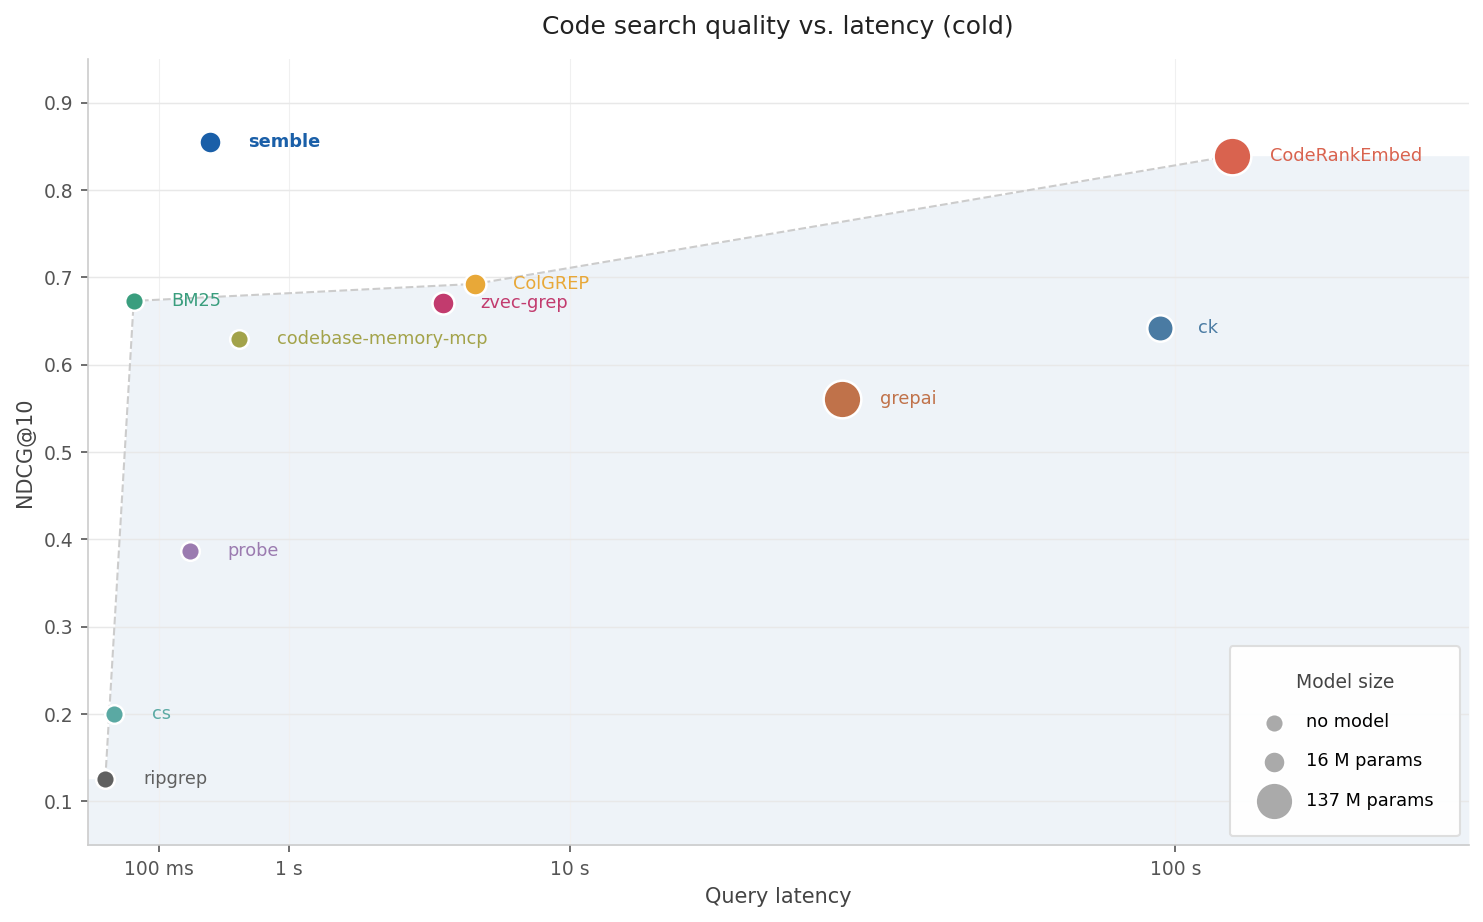
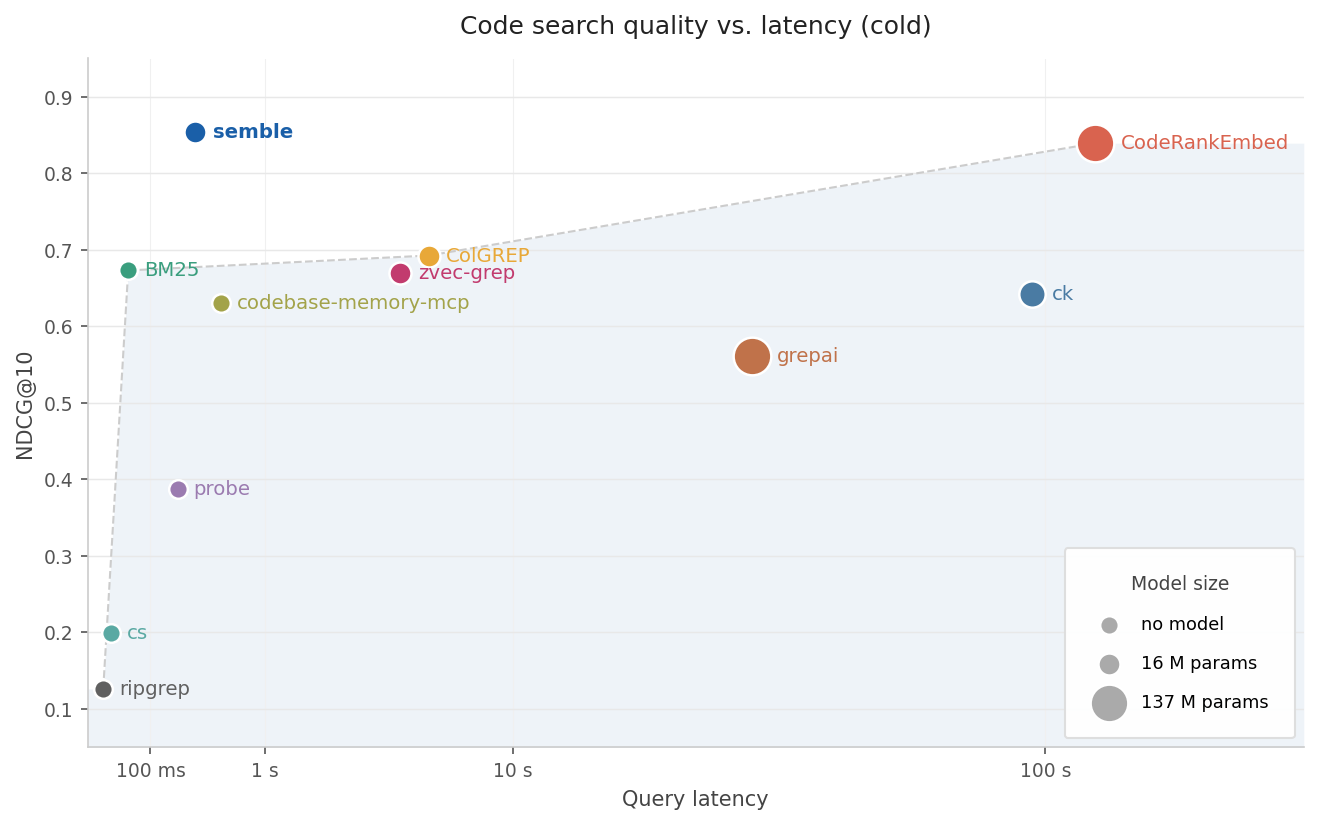
bench: offset plot labels from the marker edge instead of in data space
The old offset was a fixed distance in cube-root(ms) space, so the visible
gap depended on marker size, axis range and figure size — labels drifted
far from the smaller bubbles. Offsetting by the marker's radius plus a
fixed 3pt keeps the gap identical everywhere, which also removes the two
per-plot delta constants.

With labels attached to their bubbles the extra canvas is no longer needed
to keep zvec-grep and ColGREP apart, so the figure drops back to 9x5.6 and
labels go to 9.5pt to restore the density of the original plots.

Claude-Session: https://claude.ai/code/session_01N5WnCfeaj66TgZTbqm2Zew

diff --git a/benchmarks/plot.py b/benchmarks/plot.py
@@ -111,10 +111,9 @@ _METHODS: list[_Method] = [
     },
 ]
 
-# Fixed label offset in cube-root(ms) space — gives a consistent visual gap at every x-position.
-# The warm plot spans ~0.01 ms–1 s so needs a much smaller delta than the cold plot (~100 ms–100 s).
-_CBRT_LABEL_DELTA_COLD = 1.55
-_CBRT_LABEL_DELTA_WARM = 0.2
+# Gap between a marker's edge and its label, in points. Offsetting from the edge (rather than in data
+# space) keeps the gap identical for every marker size, axis range and figure size.
+_LABEL_GAP_POINTS = 3.0
 
 # Frontier methods per mode.
 # Cold: incumbent prior-art curve (ripgrep → BM25 → ColGREP → CodeRankEmbed); semble floats above it.
@@ -156,9 +155,8 @@ def _make_plot(out_path: Path, *, warm: bool = False) -> None:
     :param warm: If True, use per-query latency (index pre-built). If False, use index + query latency.
     """
     mode = "warm" if warm else "cold"
-    cbrt_label_delta = _CBRT_LABEL_DELTA_WARM if warm else _CBRT_LABEL_DELTA_COLD
 
-    fig, ax = plt.subplots(figsize=(10, 6.25))
+    fig, ax = plt.subplots(figsize=(9, 5.6))
 
     fig.patch.set_facecolor("white")
     ax.set_facecolor("white")
@@ -198,10 +196,11 @@ def _make_plot(out_path: Path, *, warm: bool = False) -> None:
     for m in _METHODS:
         x = m["query_p50_ms"] if warm else m["index_ms"] + m["query_p50_ms"]
         y = m["ndcg10"]
+        size = _marker_size(m["params_m"])
         ax.scatter(
             x,
             y,
-            s=_marker_size(m["params_m"]),
+            s=size,
             color=m["color"],
             marker="o",
             zorder=3,
@@ -209,12 +208,13 @@ def _make_plot(out_path: Path, *, warm: bool = False) -> None:
             edgecolors="white",
         )
 
-        x_label = (x ** (1 / 3) + cbrt_label_delta) ** 3
-        ax.text(
-            x_label,
-            y,
+        # scatter sizes are areas in points², so the marker's radius is half of sqrt(size).
+        ax.annotate(
             m["name"],
-            fontsize=8.5,
+            (x, y),
+            textcoords="offset points",
+            xytext=(size**0.5 / 2 + _LABEL_GAP_POINTS, 0),
+            fontsize=9.5,
             fontweight="bold" if m["name"] == "semble" else "normal",
             color=m["color"],
             ha="left",
